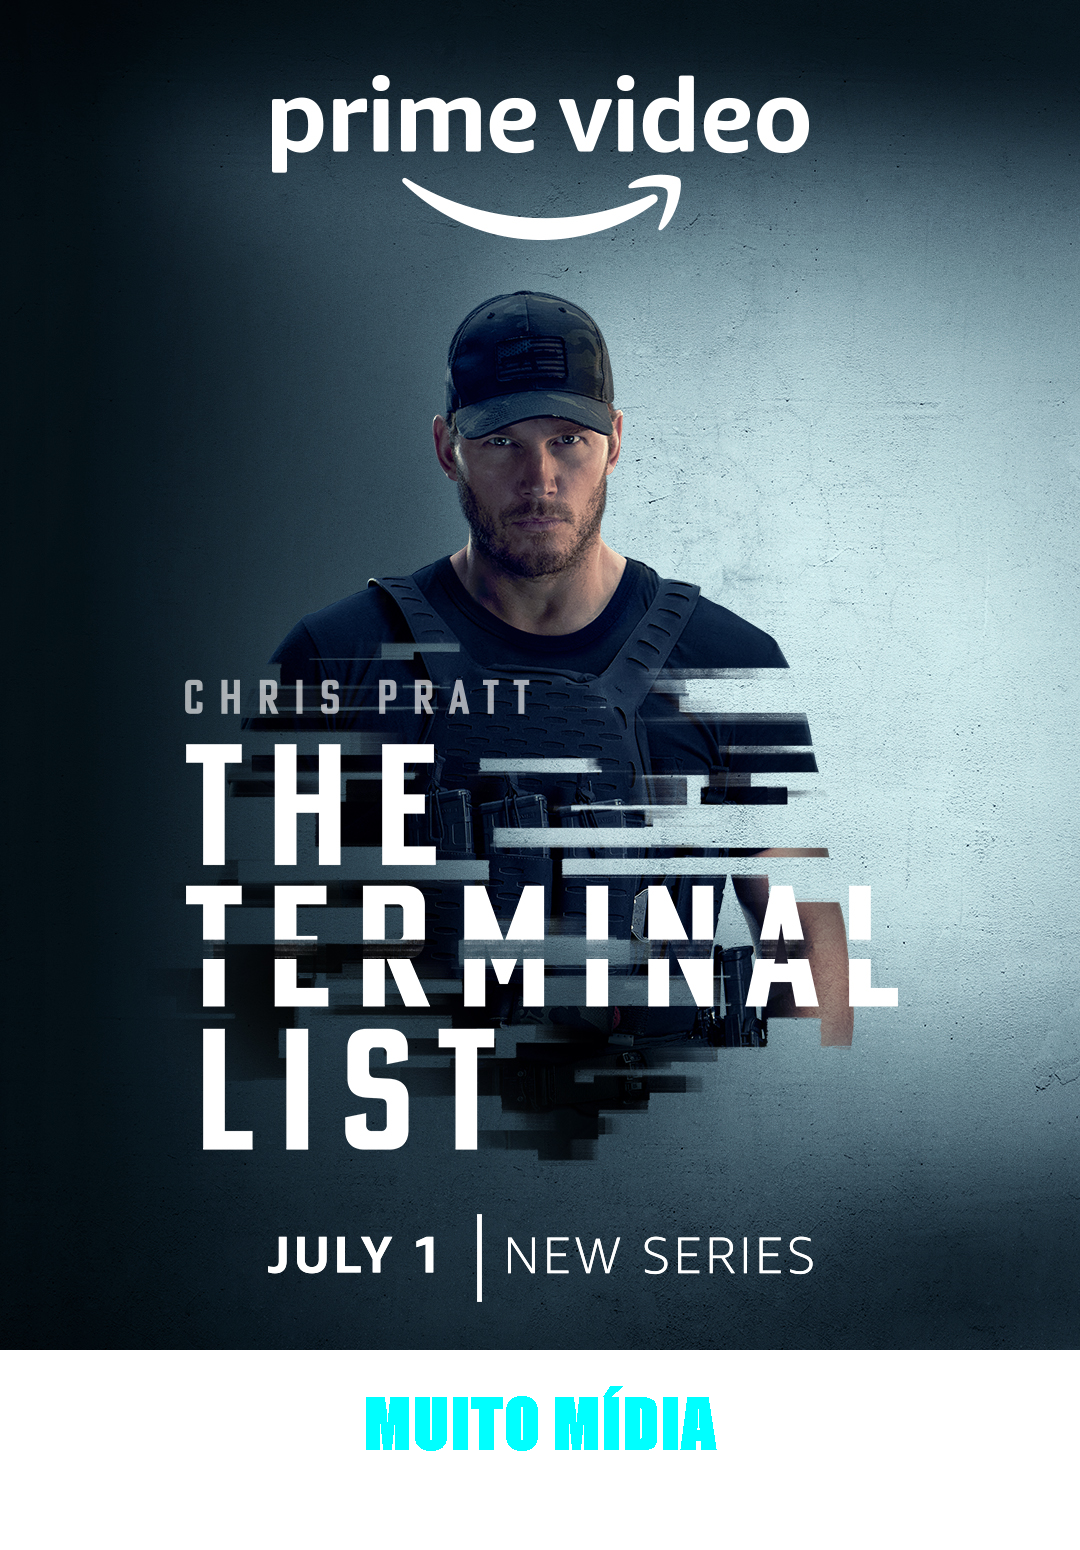
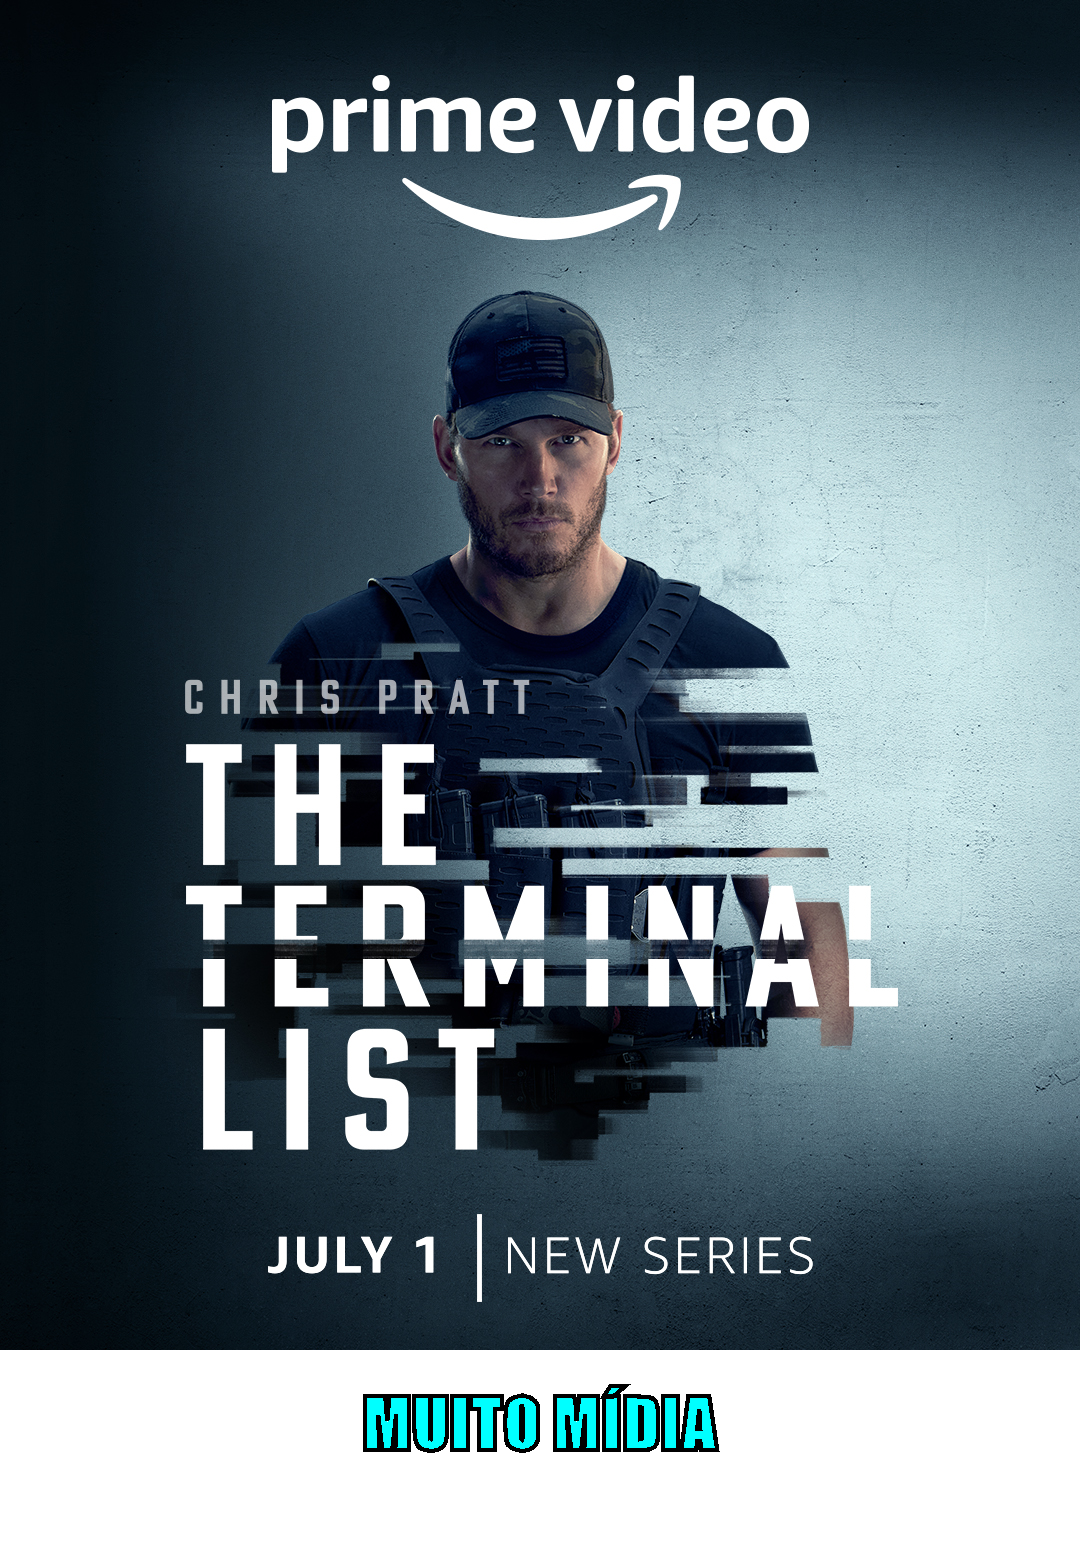
Desafio 04 - Colocar contorno (outline) no texto da imagem

Changed region(s): [[0.3361, 0.8981, 0.6722, 0.96]]

diff --git a/src/application/GeradoraDeFigurinhas.java b/src/application/GeradoraDeFigurinhas.java
@@ -1,9 +1,14 @@
 package application;
 
+import java.awt.BasicStroke;
 import java.awt.Color;
 import java.awt.Font;
 import java.awt.FontMetrics;
 import java.awt.Graphics2D;
+import java.awt.Shape;
+import java.awt.font.FontRenderContext;
+import java.awt.font.TextLayout;
+import java.awt.geom.AffineTransform;
 import java.awt.geom.Rectangle2D;
 import java.awt.image.BufferedImage;
 import java.io.File;
@@ -50,7 +55,25 @@ public class GeradoraDeFigurinhas {
 		Rectangle2D retangulo = fontMetrics.getStringBounds(texto, graphics);
 		int larguraTexto = (int) retangulo.getWidth();
 		int posicaoTextoX = (largura - larguraTexto) / 2;
-		graphics.drawString(texto, posicaoTextoX, novaAltura - 100);
+		
+		int posicaoTextoY = novaAltura - 100;
+		graphics.drawString(texto, posicaoTextoX, posicaoTextoY);
+
+
+		FontRenderContext fontRenderContext = graphics.getFontRenderContext();
+		var textLayout = new TextLayout(texto, fonte, fontRenderContext);
+
+		Shape outline = textLayout.getOutline(null);
+		AffineTransform transform = graphics.getTransform();
+		transform.translate(posicaoTextoX, posicaoTextoY);
+		graphics.setTransform(transform);
+
+		var outlineStroke = new BasicStroke(largura * 0.004f);
+		graphics.setStroke(outlineStroke);
+
+		graphics.setColor(Color.BLACK);
+		graphics.draw(outline);
+		graphics.setClip(outline);
 
 
 		// escrever a nova imagem em um arquivo
